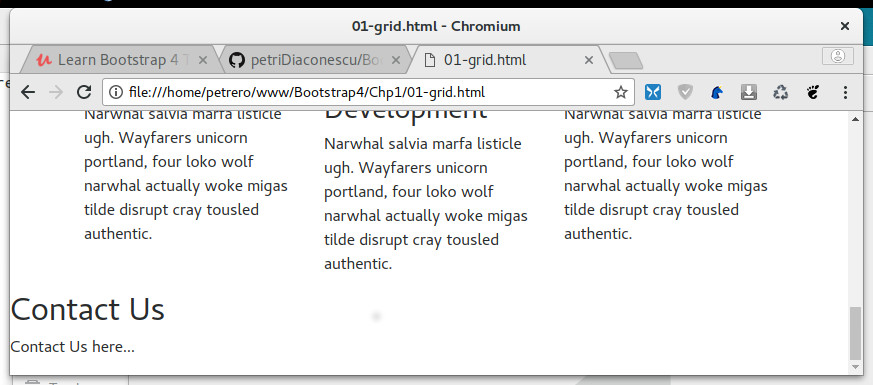
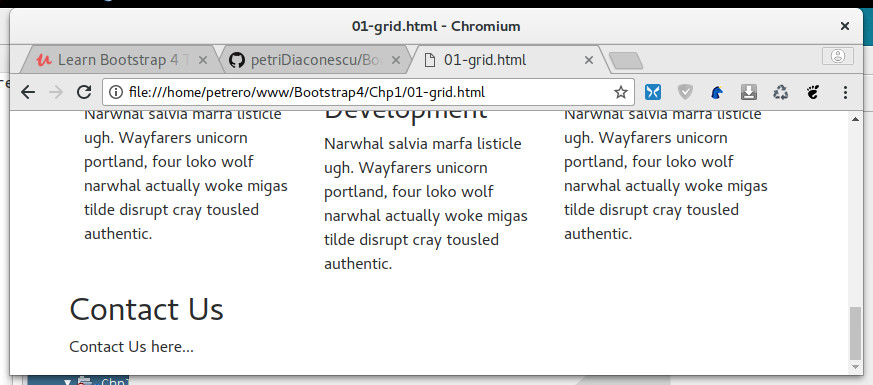
Add col-8 class to contact us section addresed to mobile devices, no md or sm prefixes used.

Changed region(s): [[0.0, 0.7792, 0.2784, 0.8416], [0.0, 0.8727, 0.2165, 0.9351], [0.0, 0.9662, 0.1546, 1.0]]

diff --git a/Chp1/01-grid.html b/Chp1/01-grid.html
@@ -71,7 +71,7 @@
     </div>
     
     <div class="container">
-      <div class="row">
+      <div class="row col-8">
         <div class="contact-info">
           <h2>Contact Us</h2>
           <p>Contact Us here...</p>
